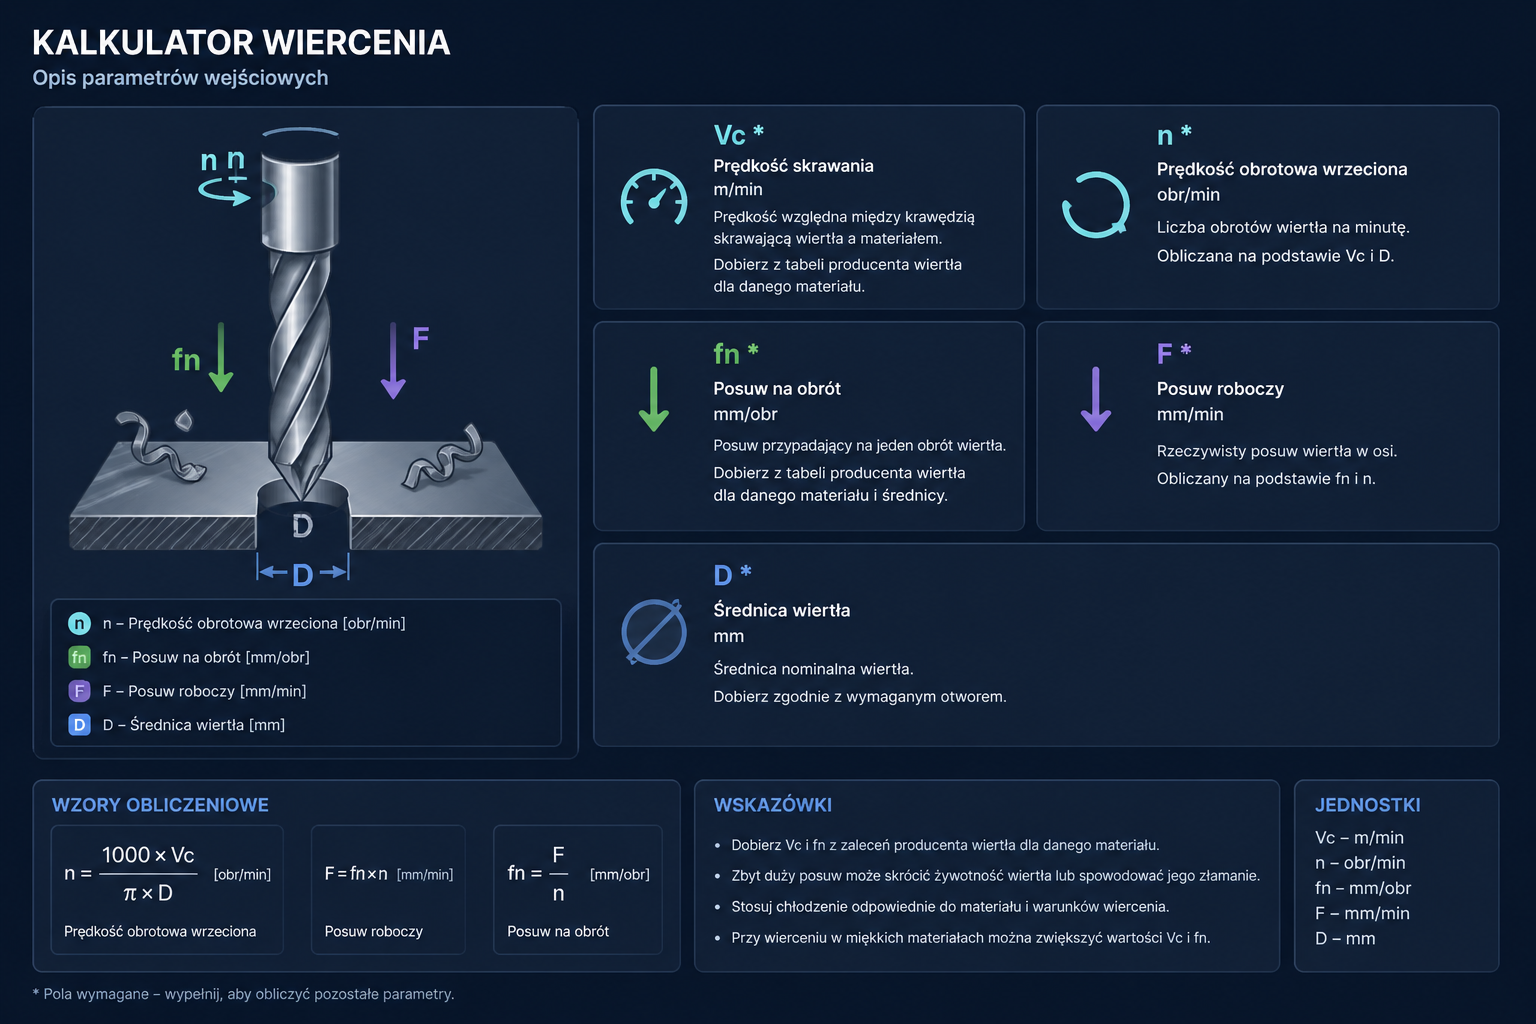
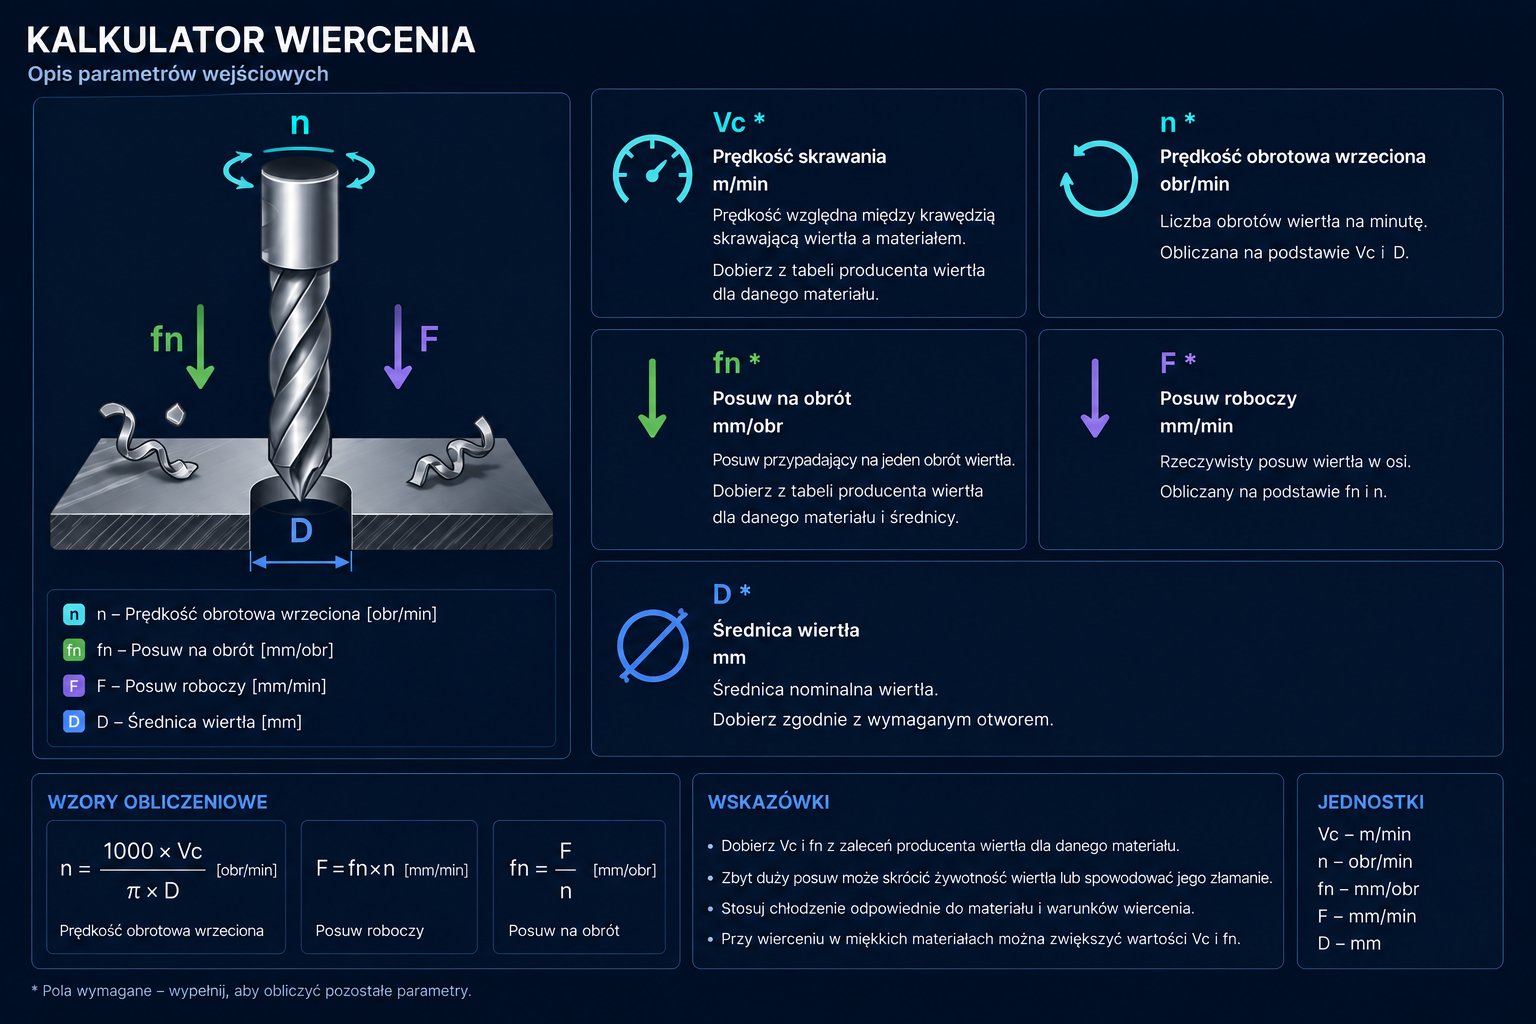
change to graphics

diff --git a/frontend/src/components/calculators/CalculatorInfoGraphic.jsx b/frontend/src/components/calculators/CalculatorInfoGraphic.jsx
@@ -13,7 +13,7 @@ export default function CalculatorInfoGraphic({ title, src, alt }) {
           <DialogTrigger asChild>
             <button
               type="button"
-              className="block w-full overflow-hidden rounded-md border border-border transition hover:border-blue-500/70 focus-visible:outline-none focus-visible:ring-2 focus-visible:ring-blue-500"
+              className="mx-auto block w-[85%] overflow-hidden rounded-md border border-border transition hover:border-blue-500/70 focus-visible:outline-none focus-visible:ring-2 focus-visible:ring-blue-500"
               aria-label={`${title} - otworz powiekszenie`}
             >
               <img
